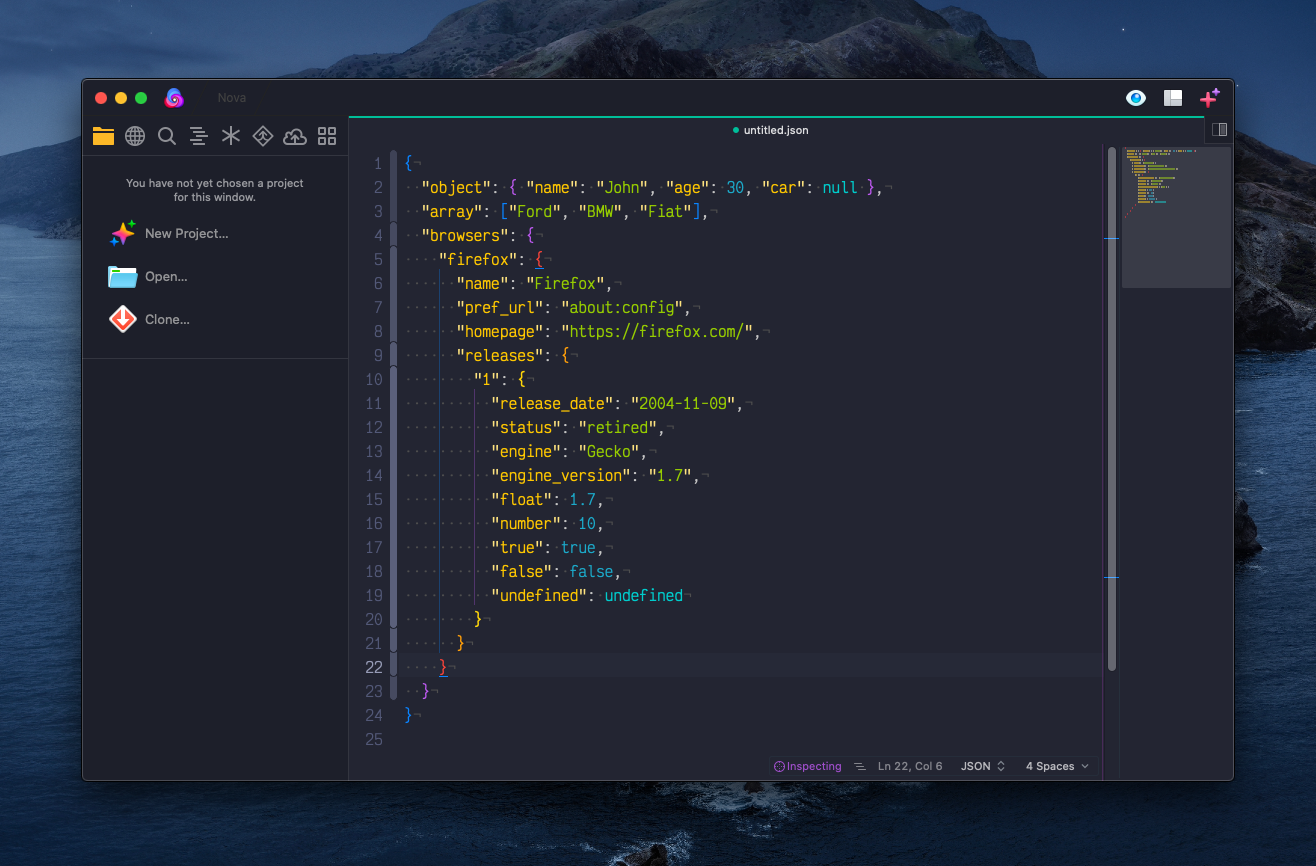
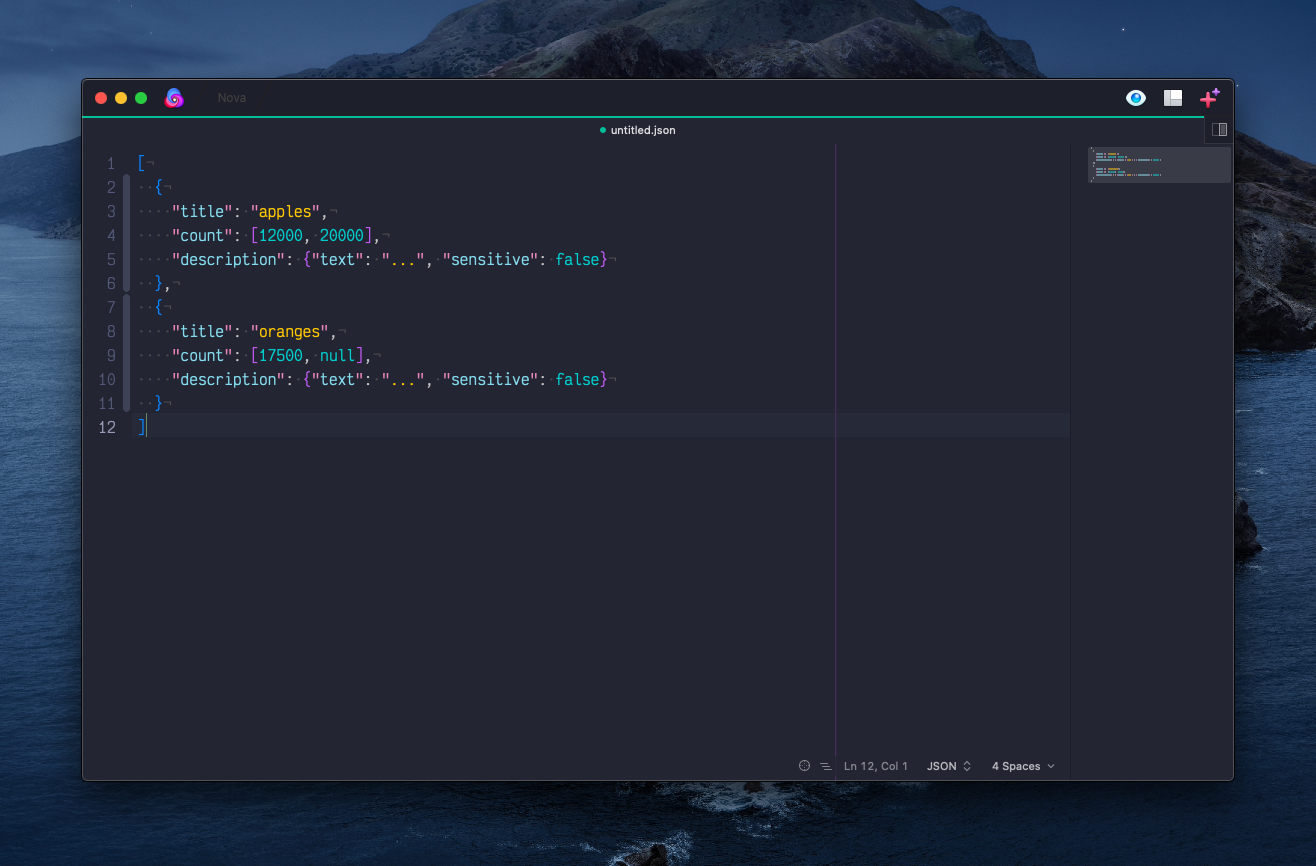
chore(readme): add javascript image and updated json image

diff --git a/README.md b/README.md
@@ -2,8 +2,14 @@
 
 ## Built-in languages
 
-### JSON
+### JavaScript since v0.2.0
+![Polis JavaScript][polis_javascript]
+
+### JSON since v0.2.0
 ![Polis JSON][polis_json]
+
+[polis_javascript]:
+https://gitlab.com/fibric/polis-nova-theme/-/raw/main/Images/extension/polis-javascript.png
 
 [polis_json]:
 https://gitlab.com/fibric/polis-nova-theme/-/raw/main/Images/extension/polis-json.png
